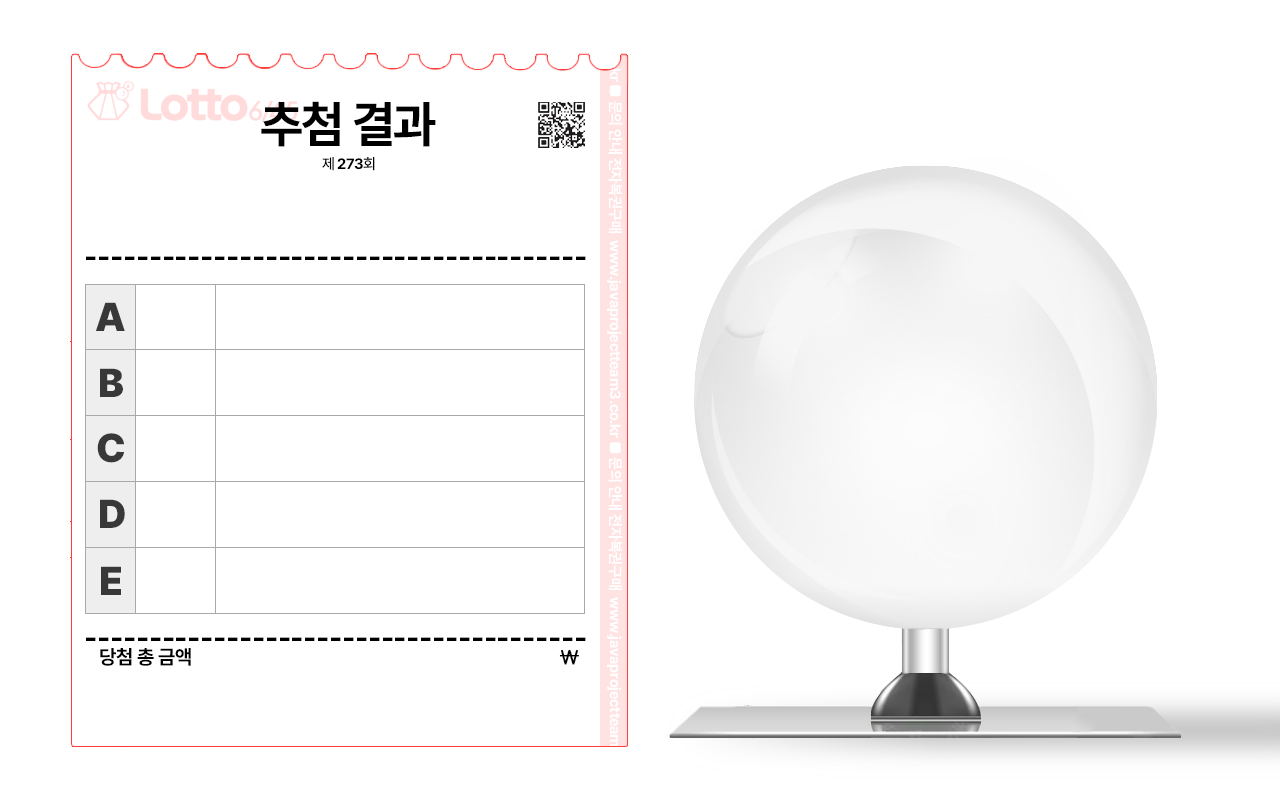
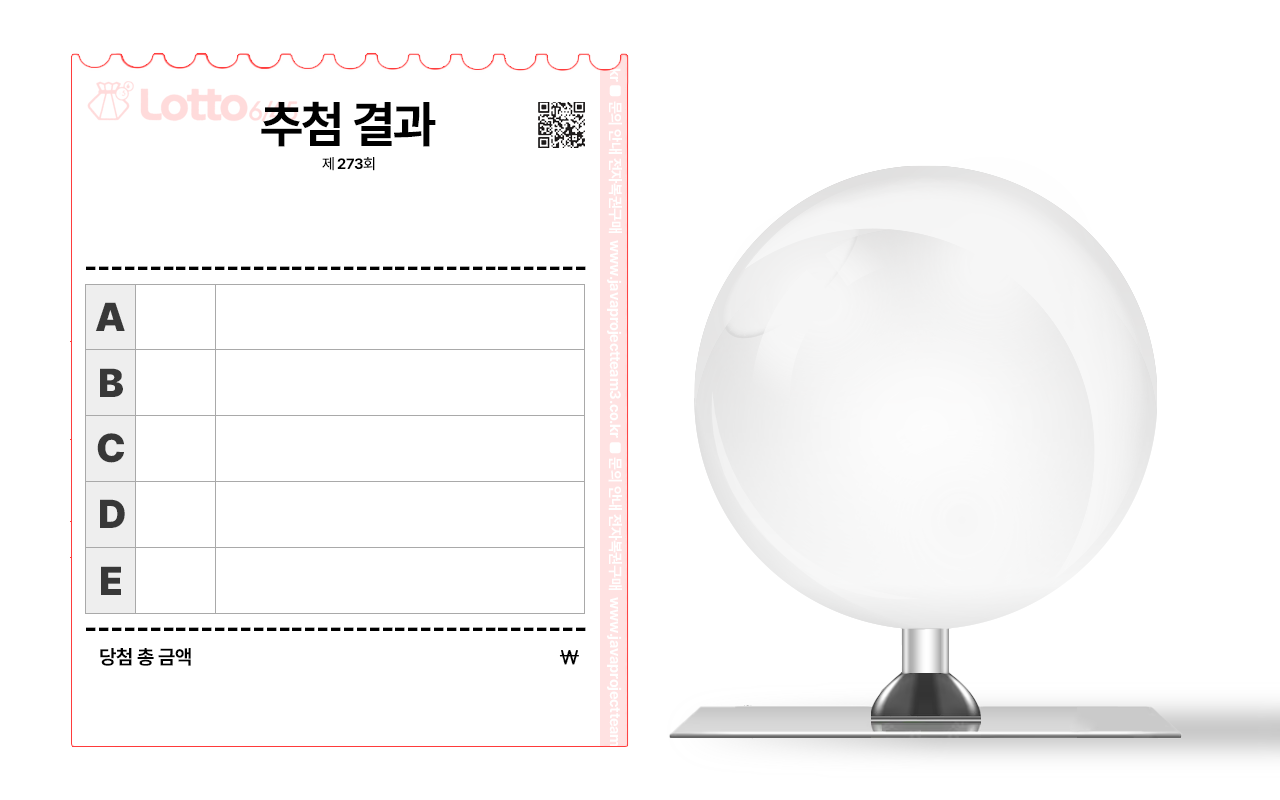
이미지 추가 + Result 클래스 수정

Changed region(s): [[0.0625, 0.7812, 0.4688, 0.8125], [0.0625, 0.3125, 0.4688, 0.3438]]

diff --git a/Team3/src/num_1/Result.java b/Team3/src/num_1/Result.java
@@ -157,13 +157,13 @@ class Result extends JFrame {
 
 		// 총 당첨금액 라벨
 		JLabel lblMoney = totalMoneyLabel();
-		lblMoney.setFont(new Font("Malgun Gothic", Font.BOLD, 30));
+		lblMoney.setFont(new Font("Malgun Gothic", Font.BOLD, 28));
 
 		// 등수 안내 라벨
-		JLabel lblInfo = new JLabel(new ImageIcon(Result.class.getResource("/image/tooltip축소.png")));
+		JLabel lblInfo = new JLabel(new ImageIcon(Result.class.getResource("/image/tooltip.png")));
 		lblInfo.setToolTipText("1등: 128,000,000원 \n 2등: 50,000,000원 \n 3등: 1,500,000원 \n 4등: 50,000원 \n 5등: 5,000원");
 		lblInfo.setBackground(new Color(255, 0, 0, 0));
-		lblInfo.setBounds(470, 585, 80, 80);
+		lblInfo.setBounds(495, 620, 80, 80);
 		getContentPane().add(lblInfo);
 
 		// 총 등수 패널
@@ -174,7 +174,7 @@ class Result extends JFrame {
 
 		// 총 가격 패널
 		JPanel pnlTotMoney = new JPanel(new FlowLayout(FlowLayout.RIGHT));
-		pnlTotMoney.setBounds(100, 600, 300, 80);
+		pnlTotMoney.setBounds(225, 600, 300, 80);
 		pnlTotMoney.setBackground(new Color(255, 0, 0, 0));
 		add(pnlTotMoney);
 
@@ -191,7 +191,7 @@ class Result extends JFrame {
 
 		// 공굴러가는거
 		JPanel pnlBallImage = loadBallImages();
-		pnlBallImage.setBounds(510, 70, 800, 600);
+		pnlBallImage.setBounds(490, 65, 800, 600);
 		pnlBallImage.setBackground(new Color(255, 0, 0, 0));
 		add(pnlBallImage);
 
@@ -234,7 +234,7 @@ class Result extends JFrame {
 		});
 
 		bgPnl = new JPanel();
-		JLabel bgLbl = new JLabel((new ImageIcon(Result.class.getResource("/image/result1280.png"))));
+		JLabel bgLbl = new JLabel((new ImageIcon(Result.class.getResource("/image/resultFinal.png"))));
 
 		bgPnl.setBounds(-35, -35, 1280, 800);
 		bgPnl.add(bgLbl);
@@ -537,7 +537,7 @@ class Result extends JFrame {
 		btn2.setRolloverIcon(img4);
 		btn2.setBorderPainted(false);
 		btn2.setContentAreaFilled(false);
-		btn2.setBounds(320, 670, 150, 70);
+		btn2.setBounds(320, 660, 126, 45);
 
 		btn2.addActionListener(new ActionListener() {
 			@Override
@@ -560,7 +560,7 @@ class Result extends JFrame {
 		btn1.setRolloverIcon(img3);
 		btn1.setBorderPainted(false);
 		btn1.setContentAreaFilled(false);
-		btn1.setBounds(120, 670, 150, 70);
+		btn1.setBounds(130, 660, 126, 45);
 
 		btn1.addActionListener(new ActionListener() {
 			@Override

diff --git a/Team3/src/num_1/Start.java b/Team3/src/num_1/Start.java
@@ -55,8 +55,8 @@ public class Start extends JFrame {
 				dispose();
 			}
 		});
-		btnExit.setIcon(new ImageIcon(Start.class.getResource("/image/exit.png")));
-		btnExit.setRolloverIcon(new ImageIcon(LottoCMR.class.getResource("/image/exitClick.png")));
+		btnExit.setIcon(new ImageIcon(Start.class.getResource("/image/cancleBtn2.png")));
+		btnExit.setRolloverIcon(new ImageIcon(LottoCMR.class.getResource("/image/cancleBtn2Click.png")));
 		btnExit.setBorderPainted(false);
 		btnExit.setContentAreaFilled(false);
 		btnExit.setBounds(702, 339, 190, 69);
